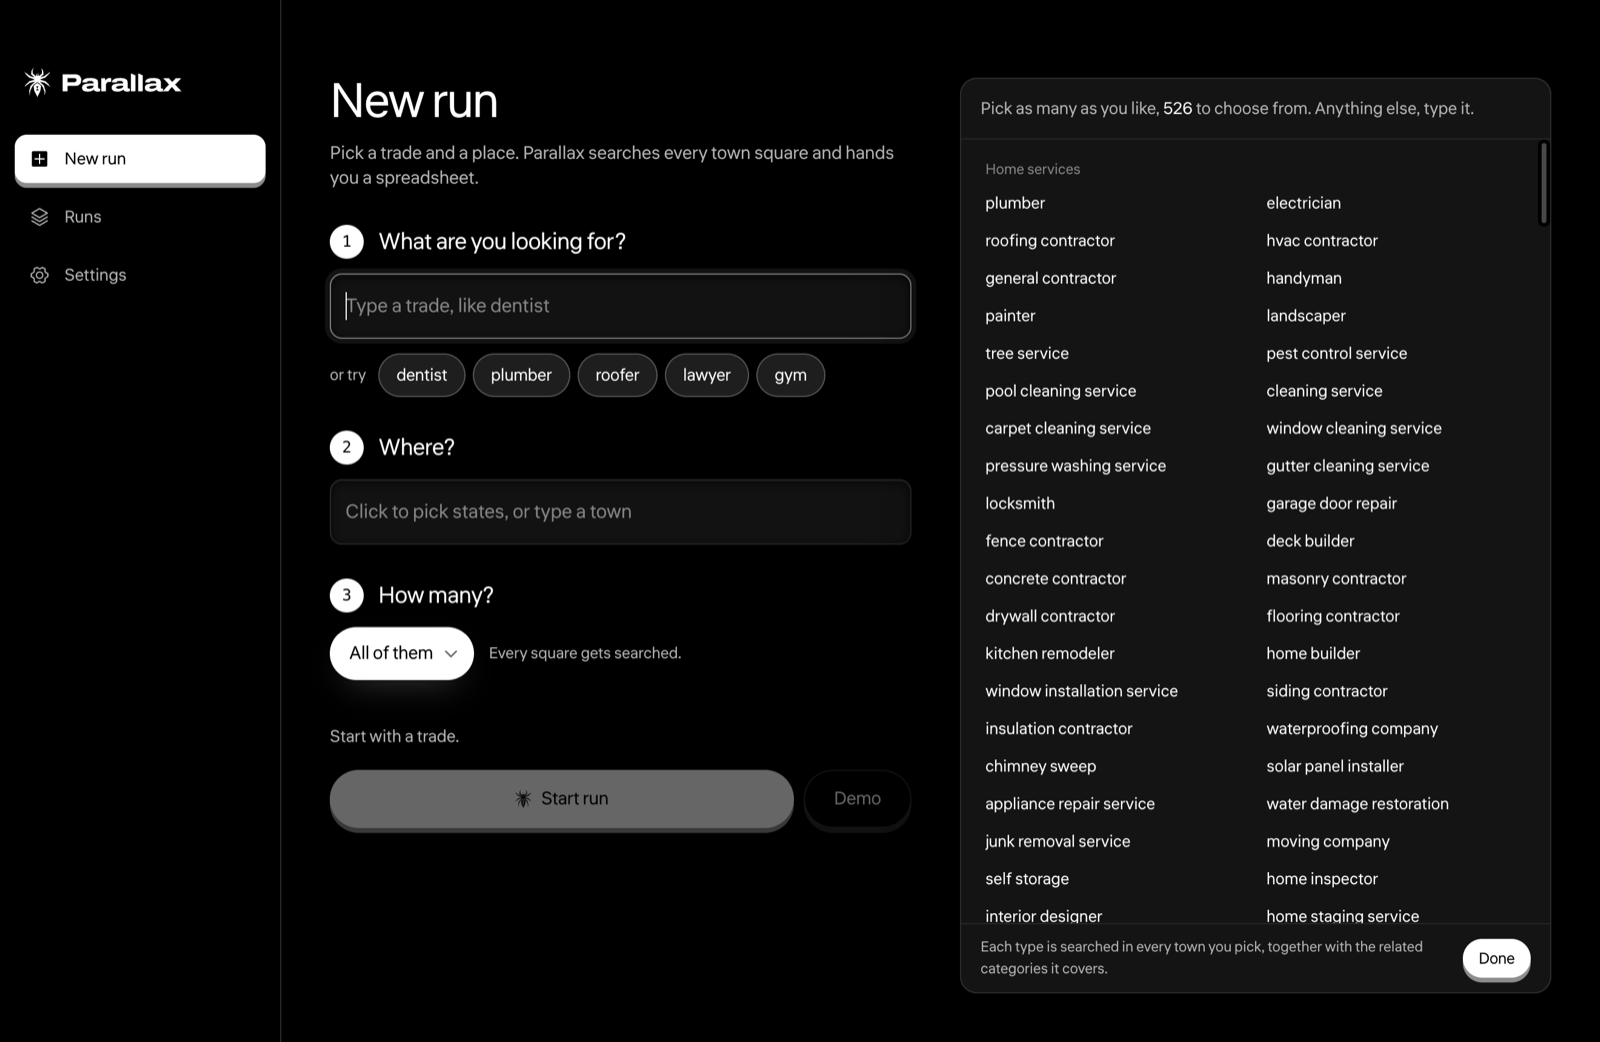
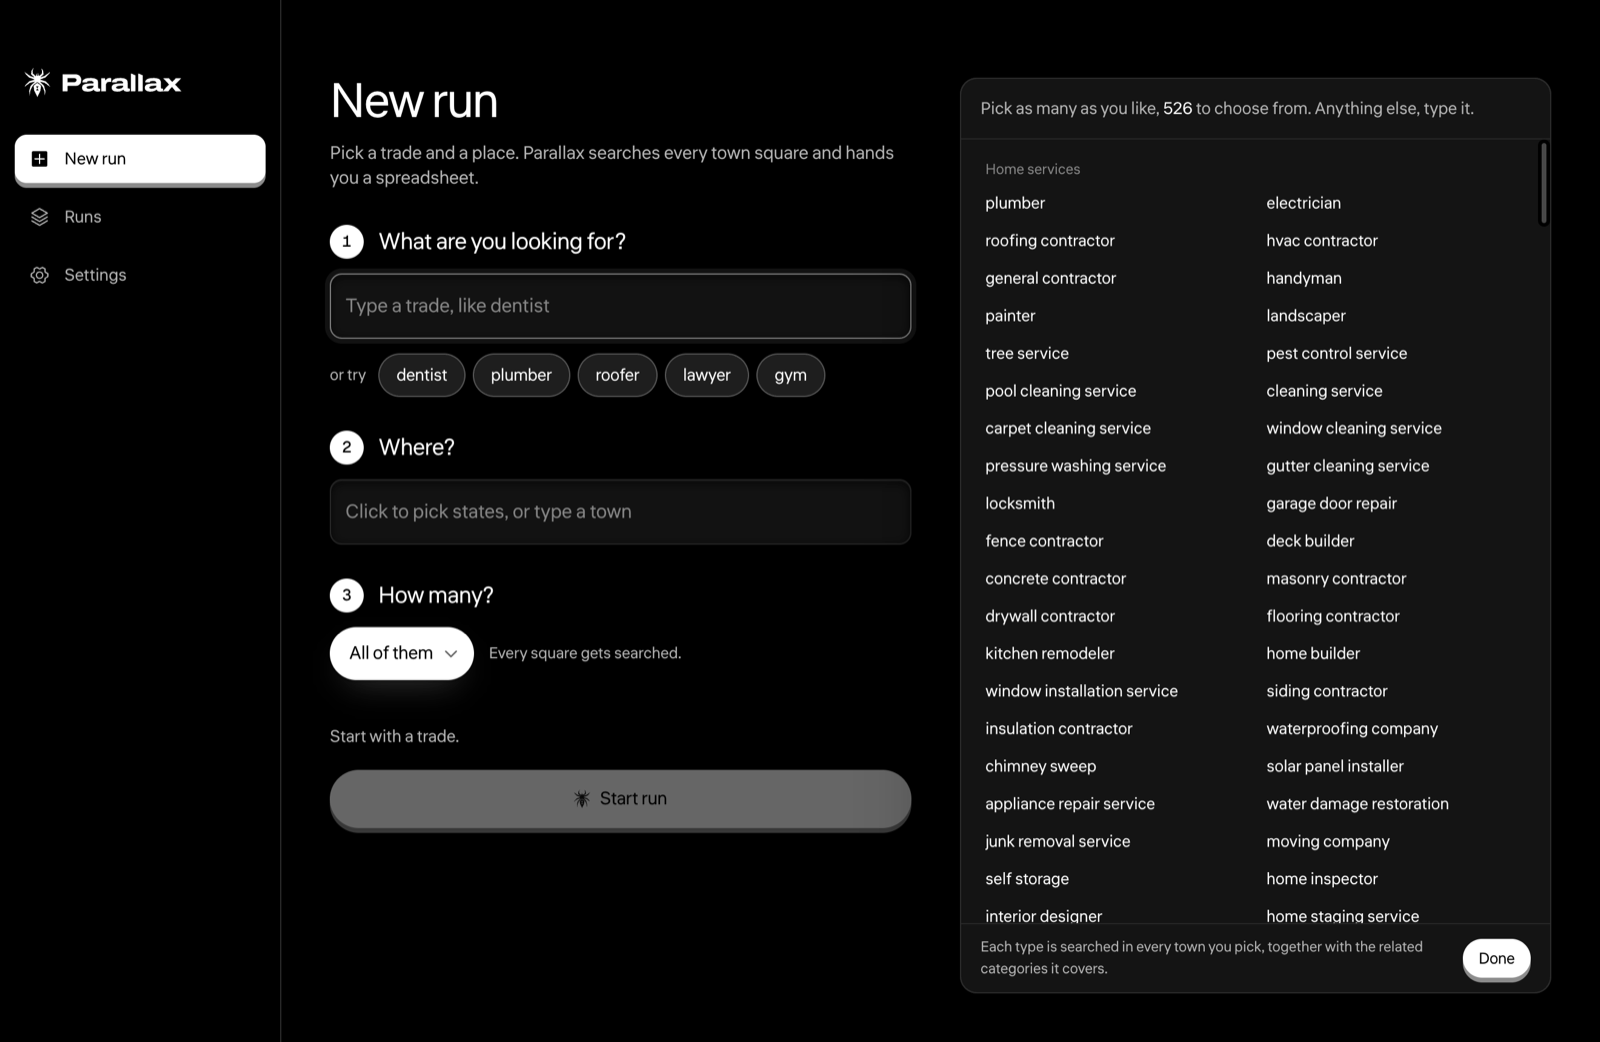
README fixes from the review; hero screenshot without the dev button

Changed region(s): [[0.4688, 0.737, 0.5938, 0.7985], [0.3438, 0.737, 0.4062, 0.7678]]

diff --git a/README.md b/README.md
@@ -8,7 +8,7 @@
 
 <p align="center">
   <a href="https://github.com/matixacik-cell/parallax-releases/releases/latest/download/Parallax.dmg"><img src="https://img.shields.io/badge/Download%20for%20Mac-000000?style=for-the-badge&logo=apple&logoColor=white" alt="Download for Mac"></a>
-  <img src="https://img.shields.io/badge/version-0.1.0-000000?style=for-the-badge" alt="Version 0.1.0">
+  <img src="https://img.shields.io/github/v/release/matixacik-cell/parallax-releases?style=for-the-badge&color=000000&label=version" alt="Latest version">
   <img src="https://img.shields.io/badge/Apple%20silicon-000000?style=for-the-badge" alt="Apple silicon">
   <img src="https://img.shields.io/badge/price-free-000000?style=for-the-badge" alt="Free">
   <a href="https://parallaxleads.com"><img src="https://img.shields.io/badge/parallaxleads.com-000000?style=for-the-badge&logo=safari&logoColor=white" alt="parallaxleads.com"></a>
@@ -22,17 +22,17 @@
 
 Pick a trade and a place. Parallax searches Google Maps town by town and writes every business it finds into a spreadsheet. A town is a handful of searches. A whole state is a few hundred, and the map shows them light up while they run.
 
-**What you get, per business:** name, category, phone, website, address, rating, number of reviews, opening hours, open or closed status, town, region, country, the search term that found it, coordinates, the Google Maps link and the place id. One row each, no duplicates across your runs.
+**What you get, per business:** name, category, phone, website, address, rating, number of reviews, opening hours, open or closed status, town, region, country, the search term that found it, coordinates, the Google Maps link and the place id. One row each, and no repeats across runs while skipping is on.
 
 **How it searches:**
 
-- Every town with 5,000 or more people is on the map (69,174 of them, worldwide). Each town gets a square sized by its population; big cities are cut into many squares so nothing is missed.
-- A trade also searches its related categories. "Plumber" searches plumbing service, drain cleaning service and water heater installer too. There are 526 business types to pick from, or type your own.
+- Every town GeoNames lists with 5,000 or more people is on the map (69,174 of them, worldwide). Each town gets a square sized by its population; big cities are cut into many squares so nothing is missed.
+- A trade also searches its related categories. "Plumber" searches plumbing service, drain cleaning service and water heater installer too, and each of those is its own search in every square. There are 526 business types to pick from, or type your own. The New run screen shows the real count before you start.
 - Listings that hide the phone number (dentists, doctors, lawyers do this a lot) are opened one by one to get it.
 - Businesses you already have from an earlier run are skipped, so every run brings new ones. You can turn that off.
 - You set the cap: a number of businesses, a time limit, or everything.
 
-**How fast, roughly:** one search takes about 20 seconds and brings about 30 businesses, three searches run at once. One town and one trade is done in a minute. A whole state and one trade is about 400 searches, around 45 minutes, and about 2.5 GB of proxy data.
+**How fast, roughly:** one search takes about 20 seconds and brings about 30 businesses. Two to five searches run at once, picked from your Mac's memory (three on a 16 GB Mac). One town and one search word is done in a minute. A whole state and one search word is about 400 searches: around 45 minutes on a 16 GB Mac and about 2.5 GB of proxy data.
 
 ## Requirements
 
@@ -43,12 +43,16 @@ Pick a trade and a place. Parallax searches Google Maps town by town and writes 
 ## Download
 
 1. Download [Parallax.dmg](https://github.com/matixacik-cell/parallax-releases/releases/latest/download/Parallax.dmg), open it, drag Parallax into Applications.
-2. First open: macOS says it cannot verify the app, because we do not have an Apple developer certificate yet. Right click Parallax in Applications, choose Open, then Open again. On the newest macOS the button may be missing: open System Settings, go to Privacy and Security, scroll down, click Open Anyway.
-3. The app walks you through connecting your proxies. Three steps, about three minutes.
+2. First open: macOS says it cannot verify the app, because we do not have an Apple developer certificate yet. Right click Parallax in Applications, choose Open, then Open again. On macOS 15 or newer there is no Open button: double click Parallax, let macOS refuse it, then open System Settings, Privacy and Security, scroll down and click Open Anyway.
+3. The app walks you through connecting your proxies. Three steps, about three minutes. Look around first skips it; Settings, Connect proxies brings it back.
 
 ## Your own proxies
 
-Parallax searches through proxies you own, so Google never sees your Mac. Make a Webshare account, pick the 100 proxy plan (about $5.39 a month, enough for roughly 580,000 businesses), paste your API key into the app once. The key stays on your Mac, locked by macOS, and only ever goes to Webshare.
+Parallax searches through proxies you own, so Google never sees your Mac. Make a Webshare account. On its pricing page, under Proxy Server, pick 100 proxies, set the country to United States and switch on High IP Reputation. That comes to about $5.39 a month with 250 GB of data, enough for roughly 580,000 businesses. Then paste your API key into the app once. The key stays on your Mac, locked by macOS, and only ever goes to Webshare.
+
+The free 10 proxy plan connects but is not enough: its 1 GB is about 170 searches, and ten addresses get blocked fast. You need the 100 proxy plan.
+
+Your API key is on Webshare's dashboard, under API keys. The Open API keys button in the app takes you there. If the app says Webshare did not accept the key, open that page again and copy the whole key. If it says the account has no proxies yet, the plan has not been bought or has not started yet.
 
 <p align="center">
   <img src="assets/connect-proxies.png" width="820" alt="The three steps to connect your proxies">
@@ -63,7 +67,13 @@ Parallax searches through proxies you own, so Google never sees your Mac. Make a
   <picture><source media="(prefers-color-scheme: dark)" srcset="assets/logos/codex-white.svg"><img src="assets/logos/codex-black.svg" height="30" alt="Codex"></picture>
 </p>
 
-Parallax has a connector for Claude, Claude Code, Cursor, VS Code and Codex. Open Settings in the app, pick your tool, press one button. Then ask:
+Parallax has a connector for Claude, Claude Code, Cursor, VS Code and Codex. Open Settings in the app, pick your tool, press one button.
+
+<p align="center">
+  <img src="assets/settings.png" width="820" alt="Settings: Webshare connected, and the Connect card with one button per AI tool">
+</p>
+
+Then ask:
 
 ```text
 Find 20 roofers in Sedona with phone numbers.
@@ -71,18 +81,18 @@ Find 20 roofers in Sedona with phone numbers.
 
 The run shows live in the Parallax window and the rows come back into the chat. A small search comes back finished in one call; a big one reports progress until it ends.
 
-Under the hood this is an MCP server (the standard way AI tools plug in). It runs on your Mac only and talks to the app through a local door that only it has the key to. The tools it gives your assistant:
+Under the hood this is an MCP server (the standard way AI tools plug in). It runs on your Mac only and talks to the app through a local door on your Mac. The tools it gives your assistant:
 
 | Tool | What it does |
 | --- | --- |
 | `parallax_preview` | What a search would cover: the towns, the business types, and the approximate searches, businesses, minutes and data. Instant, costs nothing. |
-| `parallax_start` | Start a search. With a wait of up to 50 seconds it returns the finished rows in the same answer. |
+| `parallax_start` | Start a search. With a wait of up to 50 seconds it returns the finished status and the first 100 rows in the same answer. |
 | `parallax_status` | Progress of a run, or the totals and the file path when it is done. Can wait for the end. |
 | `parallax_results` | Rows from a run, in pages, as tab separated lines. Works while the run is still going. |
 | `parallax_runs` | Your last 20 runs with their totals and file names. |
 | `parallax_stop` | Stop the current run. Everything found so far stays in the file. |
 
-A typical exchange: you ask for roofers in Sedona, the assistant previews the search, starts it with a wait, gets the rows back in the same call, notices Sedona only has five roofers, and widens to the next towns by itself before giving you the list.
+A typical exchange: you ask for roofers in Sedona. The assistant previews the search, starts it with a wait, and gets the rows back in the same call. If a town is too small it can widen to the next towns and run again.
 
 ## What stays on your Mac
 
@@ -92,19 +102,21 @@ No account. No server. Your results and your key live in your own Library folder
 
 **Why do I need proxies?** Google Maps limits how many searches one address can make. A hundred proxies spread the searches out so your Mac is never the one asking, and so the searches do not get slowed down or blocked.
 
-**Why Webshare?** It is the cheapest plan we found that works well for this: 100 US proxies, 250 GB a month, about $5.39. Parallax has no deal with them, you pay them directly, and you can cancel any time.
+**Why Webshare?** It is the cheapest plan we found that works well for this: 100 US proxies with High IP Reputation, 250 GB a month, about $5.39. The plain 100 proxy plan is cheaper, but random countries and lower reputation get blocked more. Parallax has no deal with them, you pay them directly, and you can cancel any time.
 
 **Does Parallax send anything to you?** No. There is no account and no server. The app talks to Google Maps through your proxies and to Webshare with your key, nothing else. The key and your results stay in your Library folder.
 
-**Can I run it on a town outside the US?** Yes. The town list is worldwide. The proxies are US based, so results come in the language Google shows US visitors unless you change the language in Settings.
+**Can I run it on a town outside the US?** Yes. The town list is worldwide. The proxies are US based, so results come in the language Google shows US visitors unless you change Results language under More in Settings.
 
-**How big can a run be?** As big as you like. A cap of 0 means every square gets searched; a time limit in Settings stops a long run by itself. Everything found so far is always in the file.
+**How big can a run be?** As big as you like. Choose All of them under How many? and every square gets searched. Under More in Settings, Stop a run after caps a run at one, two or four hours. Everything found so far is always in the file.
 
-**Where are my files?** In your Library folder, under Application Support, in a folder per run. Runs in the app shows them, with one click export to wherever you want the sheet.
+**How do I stop a run?** Press Stop on the Live screen. Everything found so far is already in the file.
+
+**Where are my files?** Every run is a folder in your Library folder, under Application Support. You do not need to go there: the Live screen and the Runs screen have an Export CSV button that saves the sheet to Downloads or wherever you pick, and Show in Finder opens the folder.
 
 ## Updates
 
-New versions appear on the [Releases](https://github.com/matixacik-cell/parallax-releases/releases) page. The app does not update itself yet: download the new dmg and drag Parallax into Applications over the old one. Your runs and your key stay where they are.
+New versions appear on the [Releases](https://github.com/matixacik-cell/parallax-releases/releases) page. The app does not update itself yet: quit Parallax, download the new dmg, drag Parallax into Applications and choose Replace when macOS asks. Your runs and your key stay where they are.
 
 ## Links
 

diff --git a/CHANGELOG.md b/CHANGELOG.md
@@ -8,5 +8,5 @@ First public build.
 - New run: pick a trade and a place, see the squares on the map, set a cap, start.
 - Live run: the map lights up square by square, the table fills, one click export to a spreadsheet.
 - Your own proxies: a three step guide connects your Webshare account on first open.
-- Connector for Claude, Claude Code, Cursor, VS Code and Codex, one button each in Settings. Small searches come back in one call.
+- Connector for Claude, Claude Code, Cursor, VS Code and Codex, one button each in Settings. Small searches come back to the assistant in one call.
 - Spreadsheet cells are safe to open in Excel even when a business is named like a formula.
